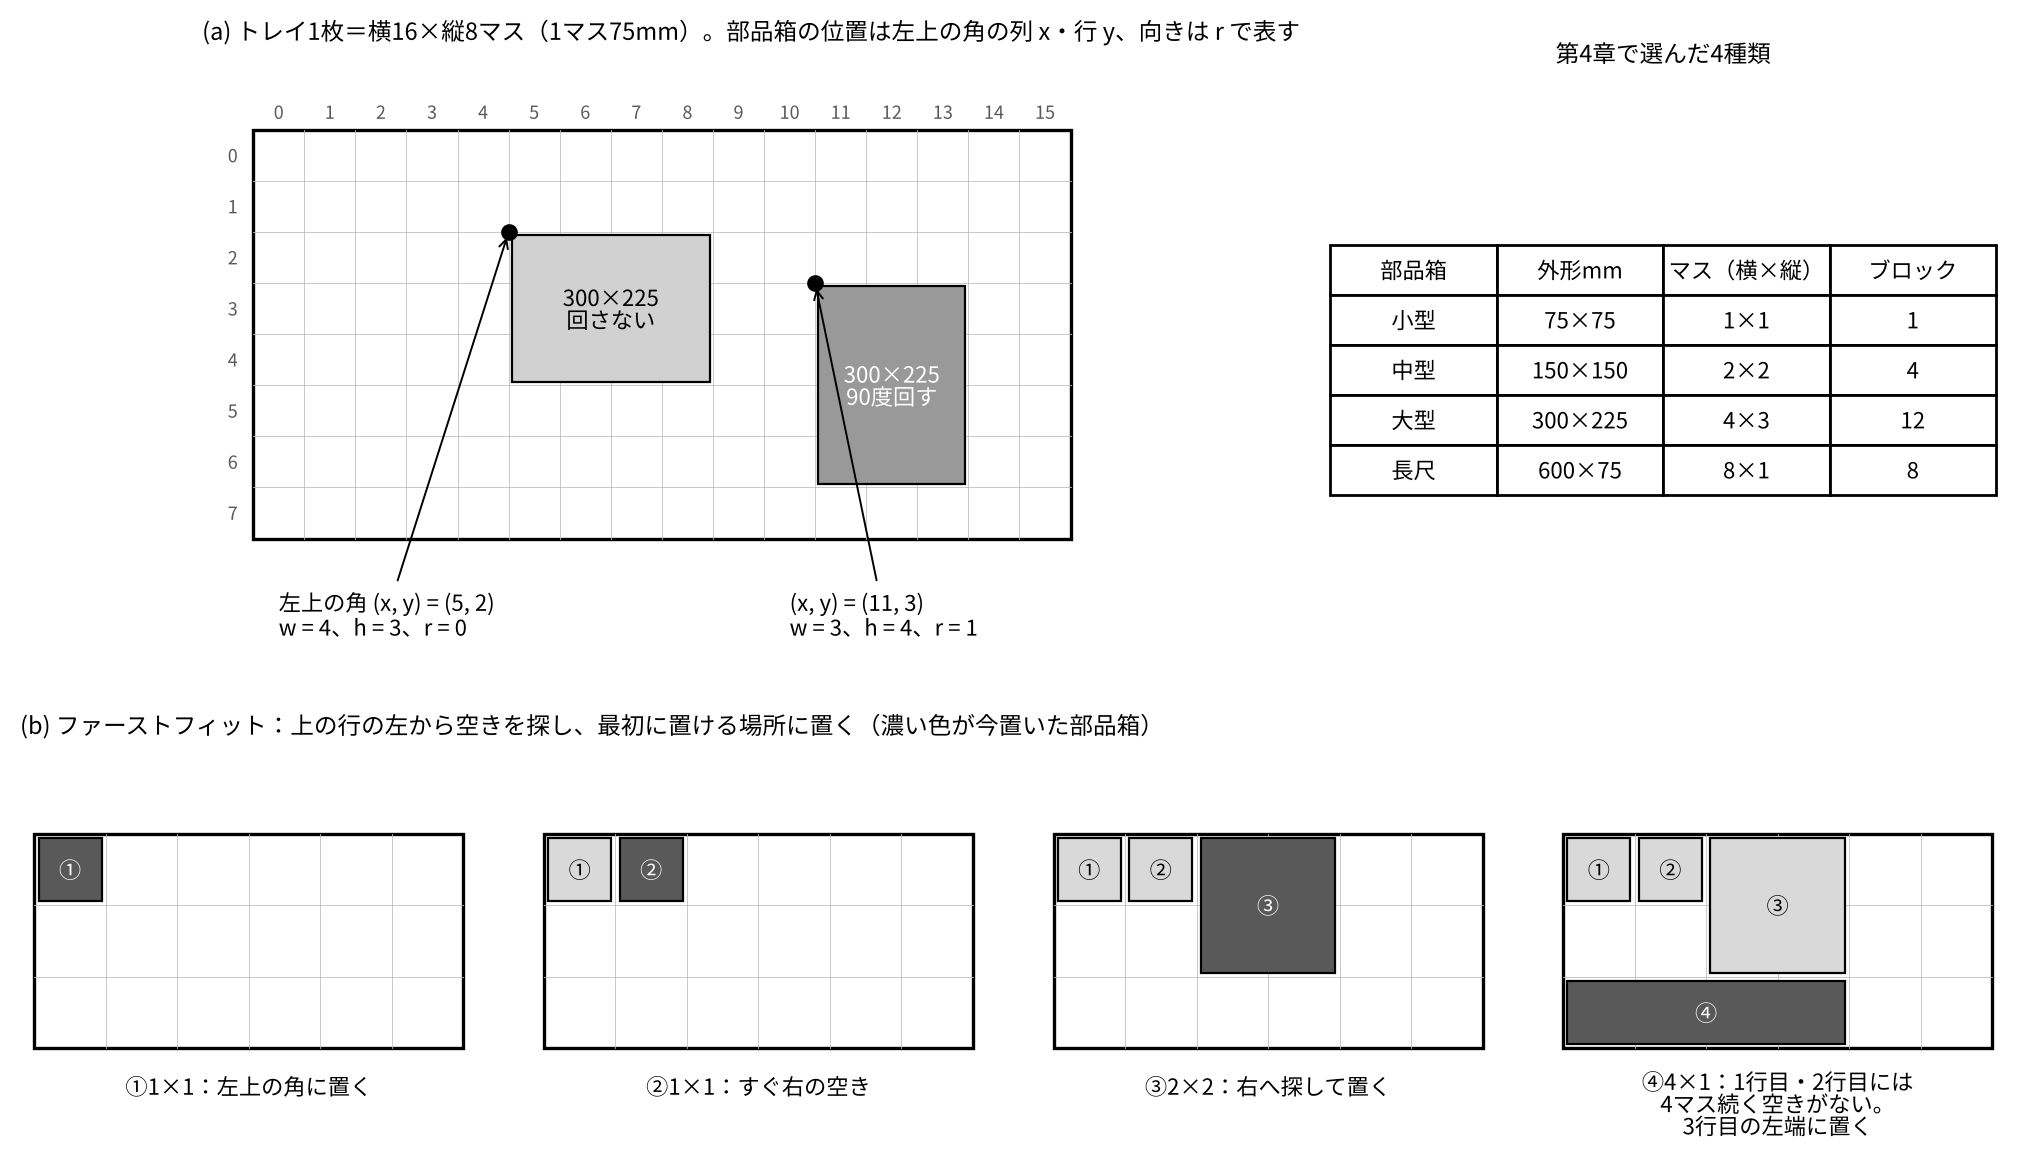
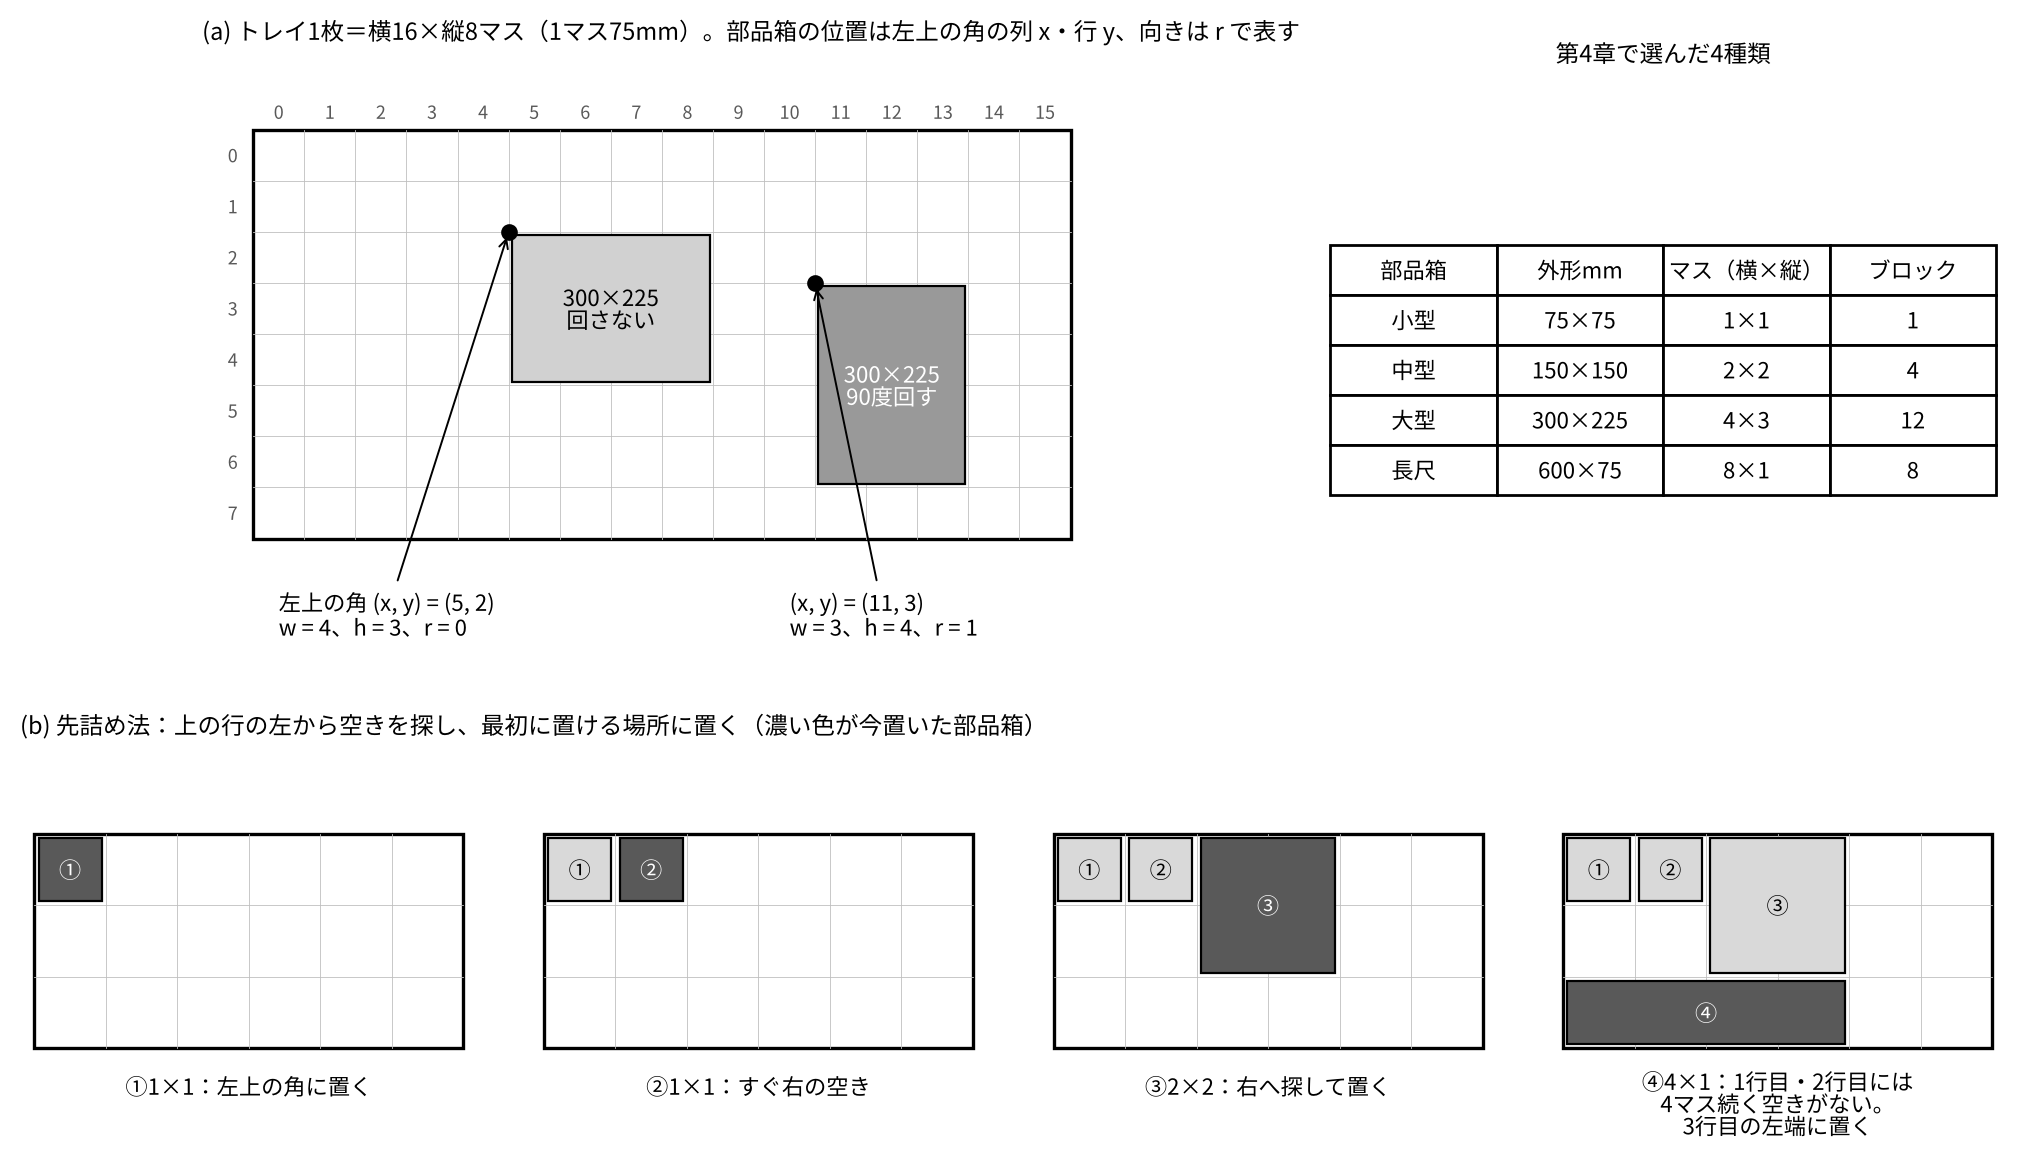
用語：ファーストフィットを先詰め法（First-Fit）に（図2-6、図5-1）
Claude-Session: https://claude.ai/code/session_015ijjeCwV7qRARbxqxFA8nM

Changed region(s): [[0.0311, 0.5912, 0.5597, 0.6534]]

diff --git a/scripts/ch5_figures.py b/scripts/ch5_figures.py
@@ -5,7 +5,7 @@
     python scripts/ch5_figures.py
 
 図3-5 ：2008年の2つの設計案（作業順の配置／サイズ順の配置）を SA-03 で再現（本では第3章の図3-5として載せ、第5章は参照）
-図5-1 ：トレイの格子と部品箱の位置の表し方、ファーストフィットの手順
+図5-1 ：トレイの格子と部品箱の位置の表し方、先詰め法の手順
 図5-3 ：CP-SATの探索（仮に決める→絞り込む→行き詰まったら戻る）
 図5-4 ：区間変数と「重ならない」の意味
 図5-5 ：トレイを横につないで1枚の板とみなす座標変換
@@ -108,7 +108,7 @@ def box(ax, x, y, w, h, label="", g="0.8", lw=0.8, fs=8, color="black"):
 
 
 def fig5_2():
-    """(a) 位置と向きの表し方 (b) ファーストフィットで4個置く"""
+    """(a) 位置と向きの表し方 (b) 先詰め法で4個置く"""
     fig = plt.figure(figsize=(10.4, 5.6))
     a = fig.add_axes([0.03, 0.42, 0.60, 0.52])
     grid(a, W, H, labels=True)
@@ -135,7 +135,7 @@ def fig5_2():
     tb.scale(1, 1.5)
     t.set_title("第4章で選んだ4種類", fontsize=8.5)
 
-    # (b) ファーストフィット：横6×縦3の小さなトレイに4個
+    # (b) 先詰め法：横6×縦3の小さなトレイに4個
     seq = [("①", 1, 1, 0, 0), ("②", 1, 1, 1, 0), ("③", 2, 2, 2, 0), ("④", 4, 1, 0, 2)]
     notes = ["①1×1：左上の角に置く", "②1×1：すぐ右の空き", "③2×2：右へ探して置く",
              "④4×1：1行目・2行目には\n4マス続く空きがない。\n3行目の左端に置く"]
@@ -147,7 +147,7 @@ def fig5_2():
         for j, (lab, w, h, x, y) in enumerate(seq[:i + 1]):
             box(ax, x, y, w, h, lab, g="0.35" if j == i else "0.85", color="white" if j == i else "black")
         ax.set_title(notes[i], fontsize=8, va="top", y=-0.12 if i < 3 else -0.1)
-    fig.text(0.03, 0.355, "(b) ファーストフィット：上の行の左から空きを探し、最初に置ける場所に置く（濃い色が今置いた部品箱）",
+    fig.text(0.03, 0.355, "(b) 先詰め法：上の行の左から空きを探し、最初に置ける場所に置く（濃い色が今置いた部品箱）",
              fontsize=8.5)
     save(fig, "fig5-1_grid_first_fit.png")
 

diff --git a/kitting/layout.py b/kitting/layout.py
@@ -64,7 +64,7 @@ def make_bins(parts: list[Part], assign: dict[str, tuple[BinType, int]]) -> list
 def layout_rule(bins: list[Bin], order: str = "size", max_trays: int = 10) -> dict[int, Placement]:
     """単純なルールで並べる（貪欲法）。
 
-    order="size": 小さい部品箱から順に、すべてのトレイの上の行・左の列から空き場所に詰める（First-Fit）。
+    order="size": 小さい部品箱から順に、すべてのトレイの上の行・左の列から空き場所に詰める（先詰め法、First-Fit）。
                   2008年の「サイズ順の配置」の考え方（本書 図3-5(b)）。
     order="step": 工程順に、今のトレイの左の列・上の行から詰め、入らなくなったら次のトレイへ進む。
                   2008年の「作業順の配置」（本書 図3-5(a)）を単純なルールで再現したもの。CP-SATの初期解（ヒント）にも使う。

diff --git a/scripts/ch2_figures.py b/scripts/ch2_figures.py
@@ -218,7 +218,7 @@ def fig2_6():
     ax.set_xlabel("計算時間　短い → 長い", fontsize=10)
     ax.set_ylabel("答えの良さ　悪い → 良い", fontsize=10)
     items = [
-        (2.1, 2.2, 3.4, 2.2, "0.92", "② 構築型の解法\nルール、ファーストフィット、\nボトムレフト法\n一瞬で終わる"),
+        (2.1, 2.2, 3.4, 2.2, "0.92", "② 構築型の解法\nルール、先詰め法、\nボトムレフト法\n一瞬で終わる"),
         (5.0, 5.2, 3.8, 2.3, "0.85", "③ メタヒューリスティクス\n焼きなまし法、遺伝的アルゴリズム、\nSequence-Pair\n少しずつ直していく"),
         (8.3, 7.4, 3.2, 2.6, "0.75", "① 厳密解法\nMILP、CP-SAT\n最適と証明できるが、\n大きい問題は\n時間内に終わらない"),
     ]
